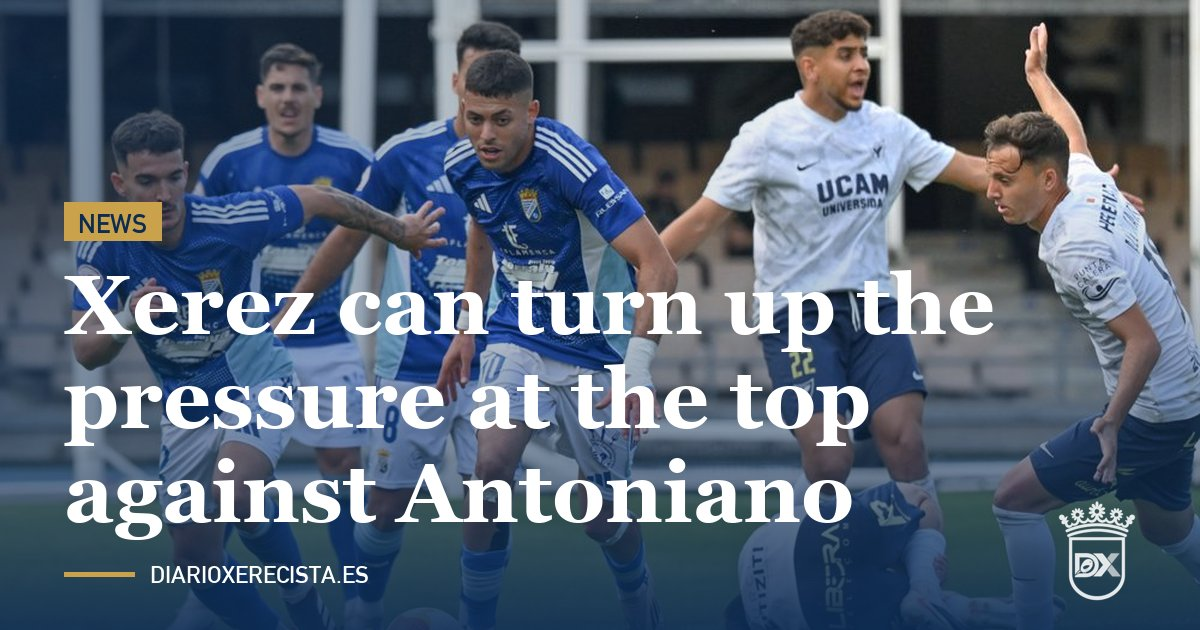
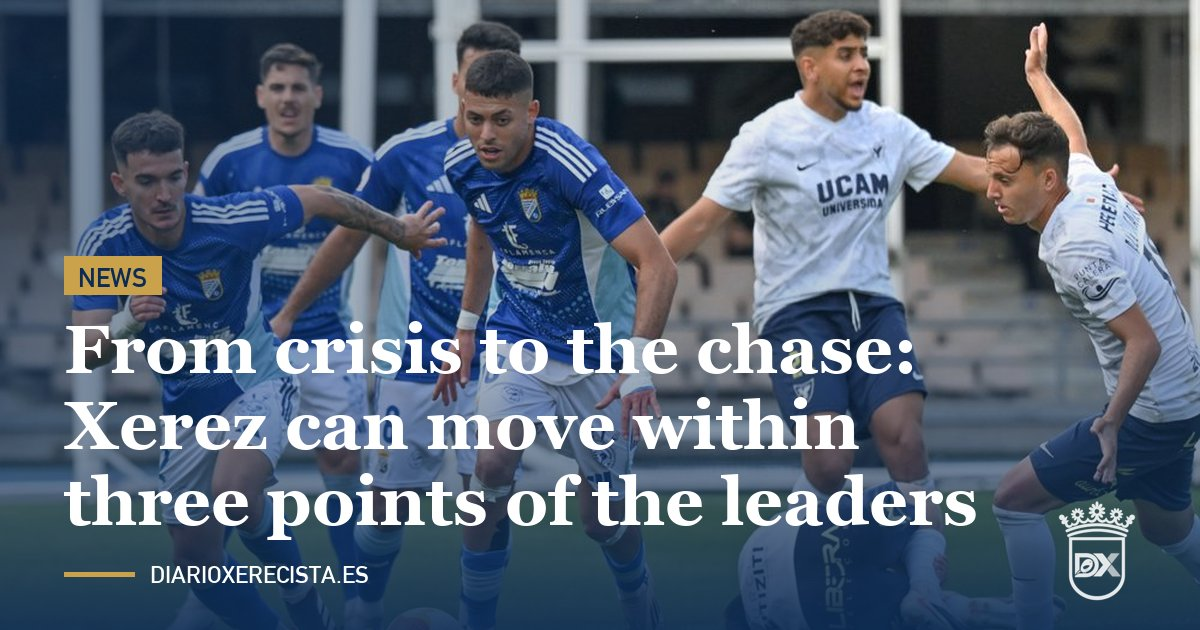
art132: titular 'De la crisis al acecho: el Xerez puede ponerse a tres del líder'

Changed region(s): [[0.0308, 0.3016, 0.8325, 0.8746]]

diff --git a/en/noticias/articulos/2026-11/xerez-can-turn-up-the-pressure-at-the-top-in-a-round-without-the-leaders/index.html b/en/noticias/articulos/2026-11/xerez-can-turn-up-the-pressure-at-the-top-in-a-round-without-the-leaders/index.html
@@ -3,7 +3,7 @@
 <head>
 <meta charset="UTF-8">
 <meta name="viewport" content="width=device-width, initial-scale=1.0">
-<title>Xerez can turn up the pressure at the top against Antoniano | Diario Xerecista</title>
+<title>From crisis to the chase: Xerez can move within three points of the leaders | Diario Xerecista</title>
 <meta name="description" content="With Recreativo de Huelva playing the Copa Federación final in Sestao and a Badajoz-Don Benito clash at the top, Xerez CD have a chance against Antoniano to close the gap on the front-runners and establish themselves in the top five.">
 <meta name="robots" content="index, follow, max-snippet:-1, max-image-preview:large">
 <link rel="canonical" href="https://www.diarioxerecista.es/en/noticias/articulos/2026-11/xerez-can-turn-up-the-pressure-at-the-top-in-a-round-without-the-leaders/">
@@ -13,7 +13,7 @@
 
 <meta property="og:type" content="article">
 <meta property="og:site_name" content="Diario Xerecista">
-<meta property="og:title" content="Xerez can turn up the pressure at the top against Antoniano">
+<meta property="og:title" content="From crisis to the chase: Xerez can move within three points of the leaders">
 <meta property="og:description" content="With Recreativo de Huelva playing the Copa Federación final in Sestao and a Badajoz-Don Benito clash at the top, Xerez CD have a chance against Antoniano to close the gap on the front-runners and establish themselves in the top five.">
 <meta property="og:url" content="https://www.diarioxerecista.es/en/noticias/articulos/2026-11/xerez-can-turn-up-the-pressure-at-the-top-in-a-round-without-the-leaders/">
 <meta property="og:image" content="https://www.diarioxerecista.es/fotos/redes/art132-en.jpg">
@@ -22,7 +22,7 @@
 <meta property="og:locale" content="en_GB">
 
 <meta name="twitter:card" content="summary_large_image">
-<meta name="twitter:title" content="Xerez can turn up the pressure at the top against Antoniano">
+<meta name="twitter:title" content="From crisis to the chase: Xerez can move within three points of the leaders">
 <meta name="twitter:description" content="With Recreativo de Huelva playing the Copa Federación final in Sestao and a Badajoz-Don Benito clash at the top, Xerez CD have a chance against Antoniano to close the gap on the front-runners and establish themselves in the top five.">
 <meta name="twitter:image" content="https://www.diarioxerecista.es/fotos/redes/art132-en.jpg">
 
@@ -35,7 +35,7 @@
 {
   "@context": "https://schema.org",
   "@type": "NewsArticle",
-  "headline": "Xerez can turn up the pressure at the top against Antoniano",
+  "headline": "From crisis to the chase: Xerez can move within three points of the leaders",
   "description": "With Recreativo de Huelva playing the Copa Federación final in Sestao and a Badajoz-Don Benito clash at the top, Xerez CD have a chance against Antoniano to close the gap on the front-runners and establish themselves in the top five.",
   "image": [
     "https://www.diarioxerecista.es/fotos/publicadas/Charaf-UCAM-Xerez.jpg"
@@ -78,7 +78,7 @@
 
   <main class="n-article">
     <span class="eyebrow">Segunda RFEF · Matchday 11</span>
-    <h1>Xerez can turn up the pressure at the top against Antoniano</h1>
+    <h1>From crisis to the chase: Xerez can move within three points of the leaders</h1>
 
     <div class="n-photo">
       <img src="../../../../../fotos/publicadas/Charaf-UCAM-Xerez.jpg" alt="Xerez CD players in a league match" loading="lazy">
@@ -107,7 +107,7 @@
 
     <div class="n-meta-row">
       <span class="byline">Newsroom — 12 November 2026</span>
-      <a href="https://x.com/intent/tweet?text=Xerez%20can%20turn%20up%20the%20pressure%20at%20the%20top%20against%20Antoniano%0A%0Ahttps%3A%2F%2Fwww.diarioxerecista.es%2Fen%2Fnoticias%2Farticulos%2F2026-11%2Fxerez-can-turn-up-the-pressure-at-the-top-in-a-round-without-the-leaders%2F%0A%0A%23XerezCD" target="_blank" rel="noopener" class="share-x-btn">Share on 𝕏</a>
+      <a href="https://x.com/intent/tweet?text=From%20crisis%20to%20the%20chase%3A%20Xerez%20can%20move%20within%20three%20points%20of%20the%20leaders%0A%0Ahttps%3A%2F%2Fwww.diarioxerecista.es%2Fen%2Fnoticias%2Farticulos%2F2026-11%2Fxerez-can-turn-up-the-pressure-at-the-top-in-a-round-without-the-leaders%2F%0A%0A%23XerezCD" target="_blank" rel="noopener" class="share-x-btn">Share on 𝕏</a>
     </div>
 
     <a class="back-link" href="../../../../../noticias/articulos/2026-11/el-xerez-puede-apretar-arriba-en-una-jornada-sin-el-lider/" style="display:block;margin-bottom:10px;">🇪🇸 Leer en español</a>

diff --git a/noticias/articulos/2026-11/el-xerez-puede-apretar-arriba-en-una-jornada-sin-el-lider/index.html b/noticias/articulos/2026-11/el-xerez-puede-apretar-arriba-en-una-jornada-sin-el-lider/index.html
@@ -3,7 +3,7 @@
 <head>
 <meta charset="UTF-8">
 <meta name="viewport" content="width=device-width, initial-scale=1.0">
-<title>El Xerez puede apretar arriba ante el Antoniano | Diario Xerecista</title>
+<title>De la crisis al acecho: el Xerez puede ponerse a tres del líder | Diario Xerecista</title>
 <meta name="description" content="Con el Recreativo de Huelva disputando en Sestao la final de la Copa Federación y un Badajoz-Don Benito en la zona alta, el Xerez CD tiene ante el Antoniano la ocasión de recortar distancias con los de arriba y asentarse entre los cinco primeros.">
 <meta name="robots" content="index, follow, max-snippet:-1, max-image-preview:large">
 <link rel="canonical" href="https://www.diarioxerecista.es/noticias/articulos/2026-11/el-xerez-puede-apretar-arriba-en-una-jornada-sin-el-lider/">
@@ -13,7 +13,7 @@
 
 <meta property="og:type" content="article">
 <meta property="og:site_name" content="Diario Xerecista">
-<meta property="og:title" content="El Xerez puede apretar arriba ante el Antoniano">
+<meta property="og:title" content="De la crisis al acecho: el Xerez puede ponerse a tres del líder">
 <meta property="og:description" content="Con el Recreativo de Huelva disputando en Sestao la final de la Copa Federación y un Badajoz-Don Benito en la zona alta, el Xerez CD tiene ante el Antoniano la ocasión de recortar distancias con los de arriba y asentarse entre los cinco primeros.">
 <meta property="og:url" content="https://www.diarioxerecista.es/noticias/articulos/2026-11/el-xerez-puede-apretar-arriba-en-una-jornada-sin-el-lider/">
 <meta property="og:image" content="https://www.diarioxerecista.es/fotos/redes/art132-es.jpg">
@@ -22,7 +22,7 @@
 <meta property="og:locale" content="es_ES">
 
 <meta name="twitter:card" content="summary_large_image">
-<meta name="twitter:title" content="El Xerez puede apretar arriba ante el Antoniano">
+<meta name="twitter:title" content="De la crisis al acecho: el Xerez puede ponerse a tres del líder">
 <meta name="twitter:description" content="Con el Recreativo de Huelva disputando en Sestao la final de la Copa Federación y un Badajoz-Don Benito en la zona alta, el Xerez CD tiene ante el Antoniano la ocasión de recortar distancias con los de arriba y asentarse entre los cinco primeros.">
 <meta name="twitter:image" content="https://www.diarioxerecista.es/fotos/redes/art132-es.jpg">
 
@@ -35,7 +35,7 @@
 {
   "@context": "https://schema.org",
   "@type": "NewsArticle",
-  "headline": "El Xerez puede apretar arriba ante el Antoniano",
+  "headline": "De la crisis al acecho: el Xerez puede ponerse a tres del líder",
   "description": "Con el Recreativo de Huelva disputando en Sestao la final de la Copa Federación y un Badajoz-Don Benito en la zona alta, el Xerez CD tiene ante el Antoniano la ocasión de recortar distancias con los de arriba y asentarse entre los cinco primeros.",
   "image": [
     "https://www.diarioxerecista.es/fotos/publicadas/Charaf-UCAM-Xerez.jpg"
@@ -78,7 +78,7 @@
 
   <main class="n-article">
     <span class="eyebrow">Segunda RFEF · Jornada 11</span>
-    <h1>El Xerez puede apretar arriba ante el Antoniano</h1>
+    <h1>De la crisis al acecho: el Xerez puede ponerse a tres del líder</h1>
 
     <div class="n-photo">
       <img src="../../../../fotos/publicadas/Charaf-UCAM-Xerez.jpg" alt="Jugadores del Xerez CD en un partido de liga" loading="lazy">
@@ -107,7 +107,7 @@
 
     <div class="n-meta-row">
       <span class="byline">Redacción — 12 de noviembre de 2026</span>
-      <a href="https://x.com/intent/tweet?text=El%20Xerez%20puede%20apretar%20arriba%20ante%20el%20Antoniano%0A%0Ahttps%3A%2F%2Fwww.diarioxerecista.es%2Fnoticias%2Farticulos%2F2026-11%2Fel-xerez-puede-apretar-arriba-en-una-jornada-sin-el-lider%2F%0A%0A%23XerezCD" target="_blank" rel="noopener" class="share-x-btn">Compartir en 𝕏</a>
+      <a href="https://x.com/intent/tweet?text=De%20la%20crisis%20al%20acecho%3A%20el%20Xerez%20puede%20ponerse%20a%20tres%20del%20l%C3%ADder%0A%0Ahttps%3A%2F%2Fwww.diarioxerecista.es%2Fnoticias%2Farticulos%2F2026-11%2Fel-xerez-puede-apretar-arriba-en-una-jornada-sin-el-lider%2F%0A%0A%23XerezCD" target="_blank" rel="noopener" class="share-x-btn">Compartir en 𝕏</a>
     </div>
 
     <a class="back-link" href="../../../../en/noticias/articulos/2026-11/xerez-can-turn-up-the-pressure-at-the-top-in-a-round-without-the-leaders/" style="display:block;margin-bottom:10px;">🇬🇧 Read in English</a>

diff --git a/index.html b/index.html
@@ -1540,7 +1540,7 @@
     <div class="news-grid" id="loUltimoGrid">
       <!-- generado dinámicamente por renderPortada(); hasta que carga se ven estos titulares, que también lee Google -->
       <!-- TITULARES-INICIO (no editar a mano: python3 -I scripts/titulares_portada.py) -->
-      <article class="card"><span class="eyebrow">Segunda RFEF · Jornada 11</span><h4><a class="tit-link" href="/noticias/articulos/2026-11/el-xerez-puede-apretar-arriba-en-una-jornada-sin-el-lider/">El Xerez puede apretar arriba ante el Antoniano</a></h4><p>Con el Recreativo de Huelva disputando en Sestao la final de la Copa Federación y un Badajoz-Don Benito en la zona alta, el Xerez CD tiene ante el Antoniano la ocasión de recortar distancias con los de arriba y asentarse entre los cinco primeros.</p></article>
+      <article class="card"><span class="eyebrow">Segunda RFEF · Jornada 11</span><h4><a class="tit-link" href="/noticias/articulos/2026-11/el-xerez-puede-apretar-arriba-en-una-jornada-sin-el-lider/">De la crisis al acecho: el Xerez puede ponerse a tres del líder</a></h4><p>Con el Recreativo de Huelva disputando en Sestao la final de la Copa Federación y un Badajoz-Don Benito en la zona alta, el Xerez CD tiene ante el Antoniano la ocasión de recortar distancias con los de arriba y asentarse entre los cinco primeros.</p></article>
       <article class="card"><span class="eyebrow">Segunda RFEF · Jornada 13</span><h4><a class="tit-link" href="/noticias/articulos/2026-11/el-xerez-linares-el-domingo-29-de-noviembre-a-las-18-00-en-chapin/">El Xerez-Linares, el domingo 29 de noviembre a las 18:00 en Chapín</a></h4><p>El Xerez CD ya conoce el horario de su partido de la jornada 13 de la Segunda RFEF, Grupo IV: recibirá al Linares Deportivo el domingo 29 de noviembre a las 18:00 en el Estadio Municipal de Chapín.</p></article>
       <article class="card"><span class="eyebrow">Opinión · Análisis</span><h4><a class="tit-link" href="/noticias/articulos/2026-11/el-otro-xerez-que-manda/">El otro Xerez que manda</a></h4><p>Mientras el equipo de fútbol pelea por el play off en Segunda RFEF, las jugadoras del Xerez CD Baloncesto lideran la Liga Femenina 2 en su primera temporada en la categoría. Merecen que el xerecismo las mire.</p></article>
       <article class="card"><span class="eyebrow">Segunda RFEF · Jornada 11</span><h4><a class="tit-link" href="/noticias/articulos/2026-11/el-antoniano-se-le-atraganta-al-xerez-tres-victorias-en-los-cuatro-ultimos-duelos/">El Antoniano se le atraganta al Xerez: tres victorias en los cuatro últimos duelos</a></h4><p>El Xerez CD recibe el domingo 15 de noviembre a las 18:00 en el Pedro Garrido al Atlético Antoniano. Es un rival que le ha ganado tres de los cuatro últimos enfrentamientos, aunque esta vez llega en la zona baja de la tabla.</p></article>
